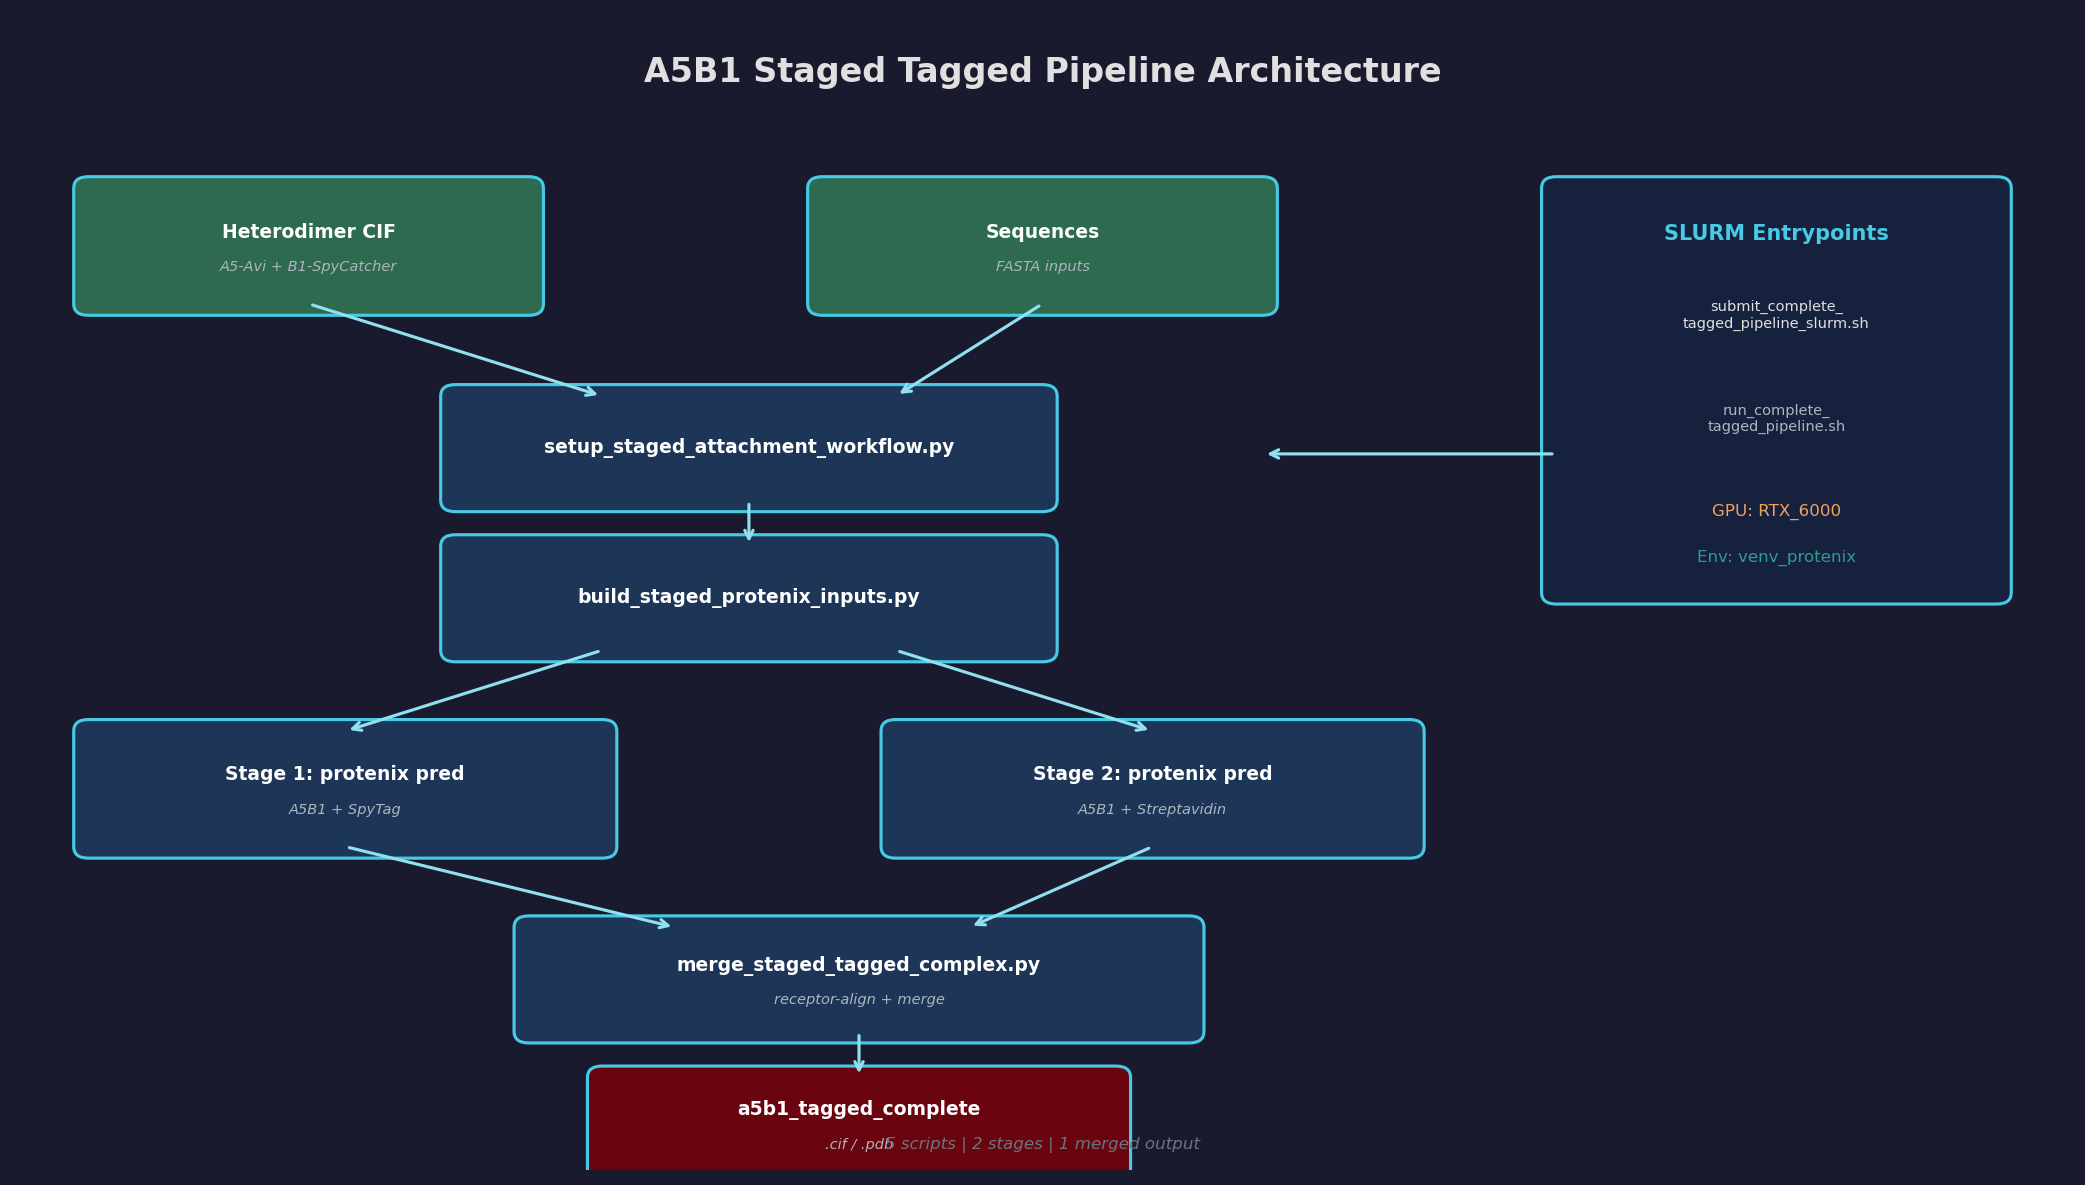
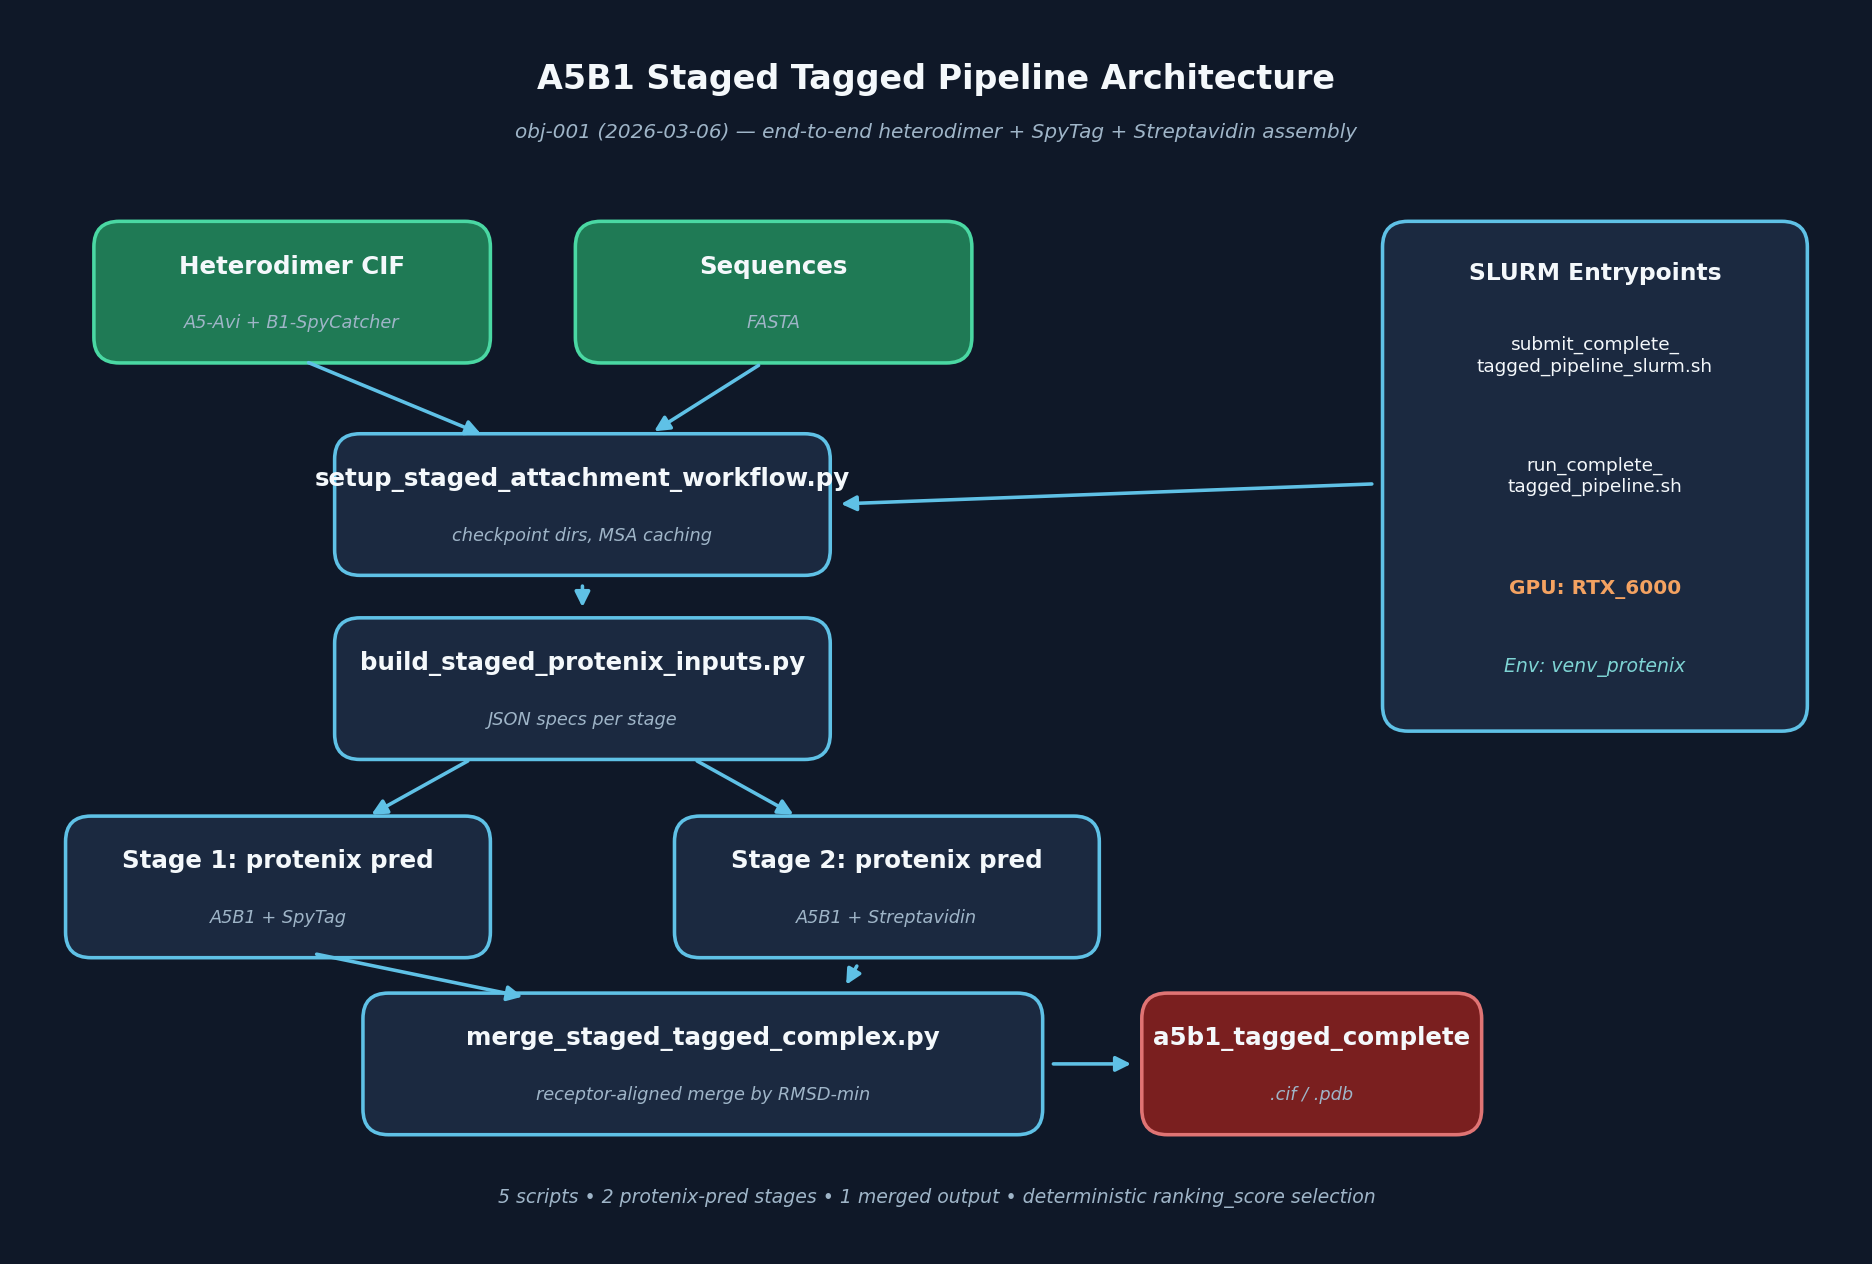
obj-001 doc-completion: expanded methodology + conclusions + diagram
Overseer task — complete documentation for obj-001 (A5B1 staged
tagged pipeline runner, 2026-03-06). Three changes:

1. Expanded obj-001 in tasks/objectives.yaml:
   - Per-script methodology with LOC counts (5 scripts, 1258 total:
     1000 Py + 258 bash) and concrete responsibility per file
   - Documented the 25+ env-var contract that became the durable
     interface for downstream objectives
   - Strengthened conclusions tying to obj-002/007/008 follow-ons
   - Added gpu_constraint + venv + slurm_account metrics for
     reproducibility

2. Regenerated results/obj-001-a5b1-pipeline-architecture.png:
   - Cleaner SLURM Entrypoints column (no title/content overlap)
   - Diagram now reads top-down: 2 inputs → setup → input-build →
     stage 1/2 → merge → output
   - 192 KB PNG, 13×8 inch, 160 dpi

3. Updated tasks/planning.md Recently Completed entry for obj-001
   with the 2026-05-13 documentation-pass note.

Side fix: obj-070 statement had an unquoted "#3" that YAML parsed
as a comment, breaking objectives.yaml parsing. Wrapped in quotes;
yaml.safe_load now returns 70 valid entries.

diff --git a/tasks/planning.md b/tasks/planning.md
@@ -154,7 +154,7 @@ Final outputs:
 - [x] AF2 reduced_dbs conformer validation (obj-007, 2026-03-23) — AF2 also locked to bent conformation. 25 predictions have pairwise RMSD 0.1-2.9Å.
 - [x] MSA-subsampled Protenix conformer validation (obj-006, 2026-03-20) — TM-score validates frame realism but Protenix is MSA-depth-invariant for AVB3.
 - [x] Build AVB3 conformer + pseudo-AFM image pipeline (obj-005, 2026-03-18)
-- [x] Add dedicated A5B1 staged pipeline runner + sbatch entrypoint. (obj-001, 2026-03-06)
+- [x] Add dedicated A5B1 staged pipeline runner + sbatch entrypoint. (obj-001, 2026-03-06) — 2026-05-13 documentation pass: expanded methodology (5 scripts, 1258 LOC total: 1000 Py + 258 bash, RTX_6000 GPU, venv_protenix, SLURM gts-yke8), strengthened conclusions tying to follow-on obj-002/007/008, regenerated cleaner architecture diagram at `results/obj-001-a5b1-pipeline-architecture.png`. Pipeline thread is mature; no further compute should be spent on it per audit-2026-05-05 drop-list.
 - [x] Add deterministic stage-merging utility for final tagged complex export. (obj-002, 2026-03-06)
 - [x] Build PACE minimal remote control script with smoke test validation. (obj-003, 2026-03-09)
 - [x] Add Claude skill for deterministic PACE job operations. (obj-004, 2026-03-10)
